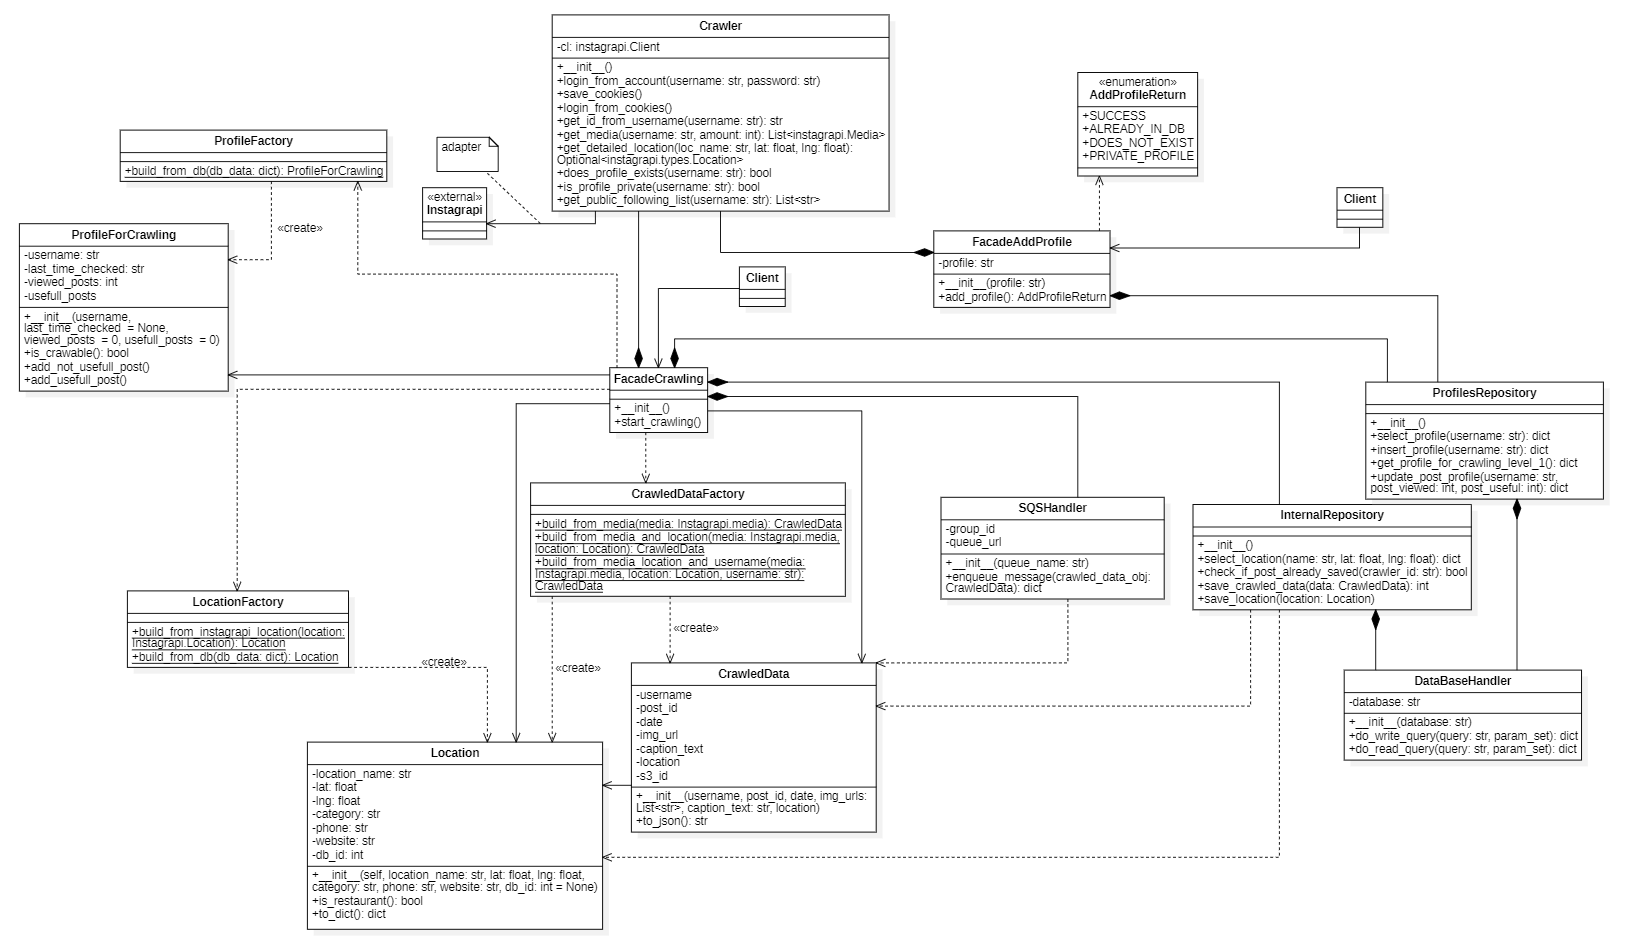
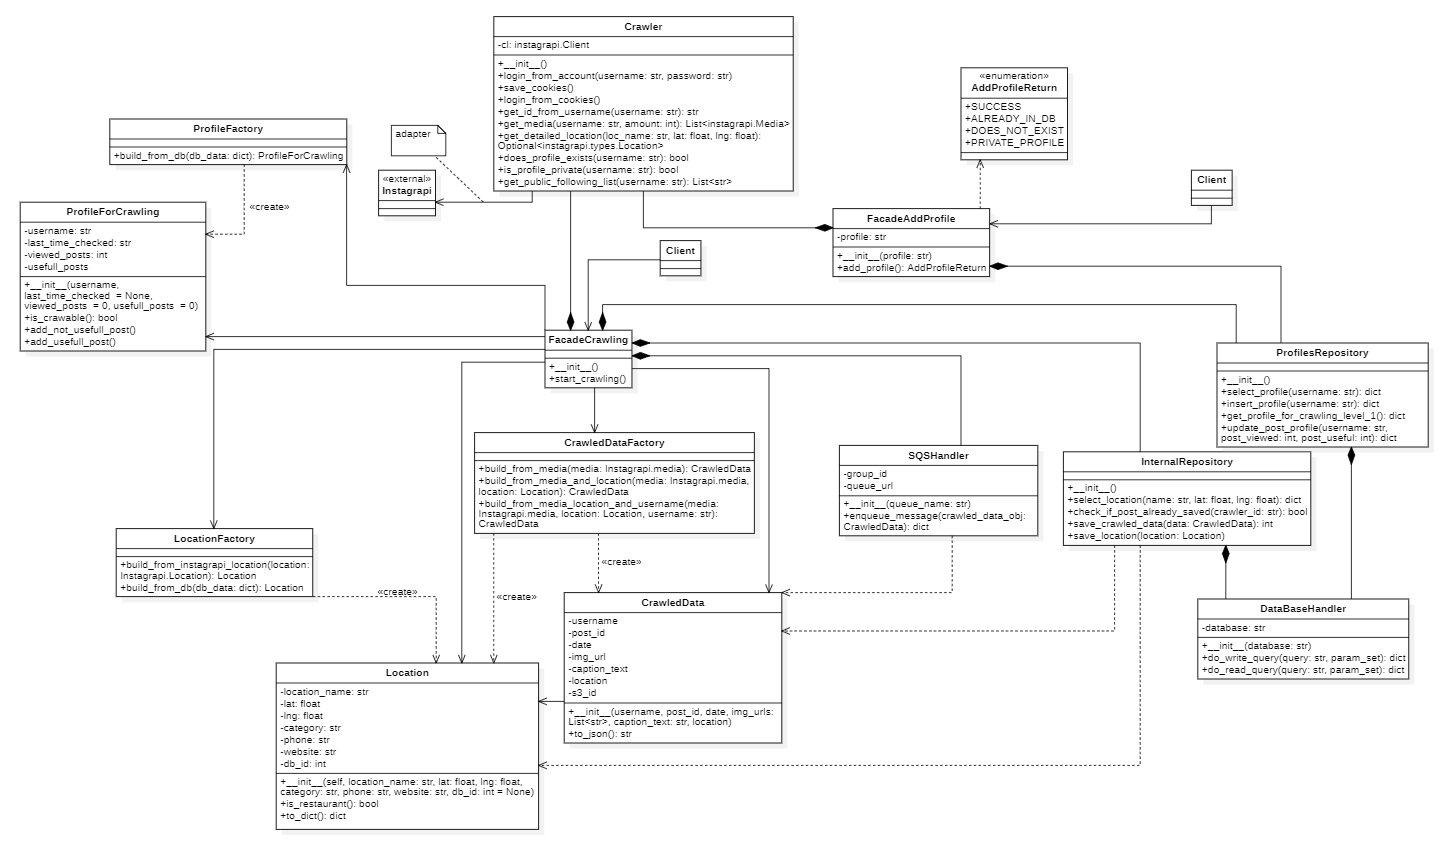
rimozione metodi statici

diff --git a/SpecificaArchitetturale/Contenuto/RegistroModifiche.tex b/SpecificaArchitetturale/Contenuto/RegistroModifiche.tex
@@ -6,11 +6,19 @@
 \renewcommand{\arraystretch}{1.5}
 \begin{longtable}{ m{0.1\textwidth}<{\centering}  m{0.13\textwidth}<{\centering}  m{0.2\textwidth}<{\centering}  m{0.14\textwidth}<{\centering}  m{0.3\textwidth}<{\centering} }
 	\rowcolor{darkblue}
-	\textcolor{white}{\textbf{Versione}} &\textcolor{white}{\textbf{Data}}& \textcolor{white}{\textbf{Nominativo}} & \textcolor{white}{\textbf{Ruolo}}& \textcolor{white}{\textbf{Descrizione}} \\ 	
+	\textcolor{white}{\textbf{Versione}} &\textcolor{white}{\textbf{Data}}& \textcolor{white}{\textbf{Nominativo}} & \textcolor{white}{\textbf{Ruolo}}& \textcolor{white}{\textbf{Descrizione}} \\ 
+	
+	v2.0.0 & 2022-06-18 & \shortstack{ \\ \LW} &\shortstack{ \\ \RE{} } & Approvazione per il rilascio. \\
+
+	v1.1.0 & 2022-06-14 & \shortstack{ \\ \FP{}} &\shortstack{ \\ \PT{} } & Verifica complessiva di coesione e consistenza. (\VE: \textit{\PV}) \\
+
+	v1.0.2 & 2022-06-14 & \shortstack{ \\ \FP{}} &\shortstack{ \\ \PT{} } & Modifica \S{2.3} (\VE: \textit{\PV}) \\
+
+	v1.0.1 & 2022-06-12 & \shortstack{ \\ \FP{}} &\shortstack{ \\ \PT{} } & Modifica \S{2.2} (\VE: \textit{\PV}) \\
 	
 	v1.0.0 & 2022-05-14 & \shortstack{ \\ \LW} &\shortstack{ \\ \RE{} } & Approvazione per il rilascio. \\
 
-	v0.2.0 & 2022-05-13 & \shortstack{ \\ \GC{}} &\shortstack{ \\ \PT{} } & Verifica di coesione e consistenza complessiva. (\VE: \textit{\PV}) \\
+	v0.2.0 & 2022-05-13 & \shortstack{ \\ \GC{}} &\shortstack{ \\ \PT{} } & Verifica complessiva di coesione e consistenza. (\VE: \textit{\PV}) \\
 
 	v0.1.2 & 2022-05-12 & \shortstack{ \\ \GC{}} &\shortstack{ \\ \PT{} } & Stesura \S\S{2.4.1-2} (\VE: \textit{\PV}) \\
 	

diff --git a/SpecificaArchitetturale/Contenuto/Sezioni/ArchitetturaCrawlingService.tex b/SpecificaArchitetturale/Contenuto/Sezioni/ArchitetturaCrawlingService.tex
@@ -48,7 +48,6 @@ Per La realizzazione del Crawling Service sono stati utilizzati i seguenti desig
 \begin{itemize}
     \item \textbf{Facade:} Utilizzato per la realizzazione delle classi FacadeCrawling e FacadeAddProfile, in modo da fornire ai client un'interfaccia semplice ad un sottosistema molto complesso e disaccoppiando la logica di implementazione del sistema dal client.
     \item \textbf{Adapter:} Utilizzato dalla classe Crawler per disaccoppiare il resto del sistema dai metodi di Instagrapi, rendendo disponibili solo quelli necessari tramite un'interfaccia nota al sistema.
-    \item \textbf{Static Factory:} Utilizzato per fornire dei metodi statici in grado di creare oggetti di tipo CrawledData, Location, ProfileForCrawling a partire da altri tipi di oggetti.
 \end{itemize}
 
 \subsubsection{Schema del database}

diff --git a/SpecificaArchitetturale/Contenuto/Sezioni/ArchitetturaRankingService.tex b/SpecificaArchitetturale/Contenuto/Sezioni/ArchitetturaRankingService.tex
@@ -48,7 +48,6 @@ Per La realizzazione del Ranking Service sono stati utilizzati i seguenti design
 \begin{itemize}
     \item \textbf{Strategy:} Utlizzato per la realizzazione di PostAnalyzer ed EmojiAnalyzer, è stato scelto principalmente per la sua versatilità.\\
     Questo pattern infatti ci permette, nel caso in cui in futuro ci sia bisogno di un algoritmo più avanzato per l'analisi dei post, con il minimo sforzo e modifica del codice, di implementare la nuova classe che erediterà anch'essa dalla classe base Analyzer.
-    \item \textbf{Static Factory:} Utilizzato per la creazione di oggetti dalle varie fonti accessibili dal microservizio, come la coda SQS, e la creazione di liste contenti dati pronti per l'utilizzo nei metodi riguardanti il database.
 \end{itemize}
 
 \subsubsection{Schema del database}

diff --git a/SpecificaArchitetturale/Contenuto/Intro.tex b/SpecificaArchitetturale/Contenuto/Intro.tex
@@ -13,7 +13,7 @@
 \begin{tabular}{r|c}
 \multicolumn{2}{c}{\textbf{Informazioni sul Documento}} \\
 \hline \\
-\textbf{Versione} & 1.0.0 \\ \rule{0pt}{3ex}    
+\textbf{Versione} & 2.0.0 \\ \rule{0pt}{3ex}    
 \textbf{Approvatori} & \LW \\ \rule{0pt}{3ex}      
 \textbf{Redattori} & \FP{} \\ \rule{0pt}{2ex}   
 & \GC{} \\ \rule{0pt}{2ex} 
